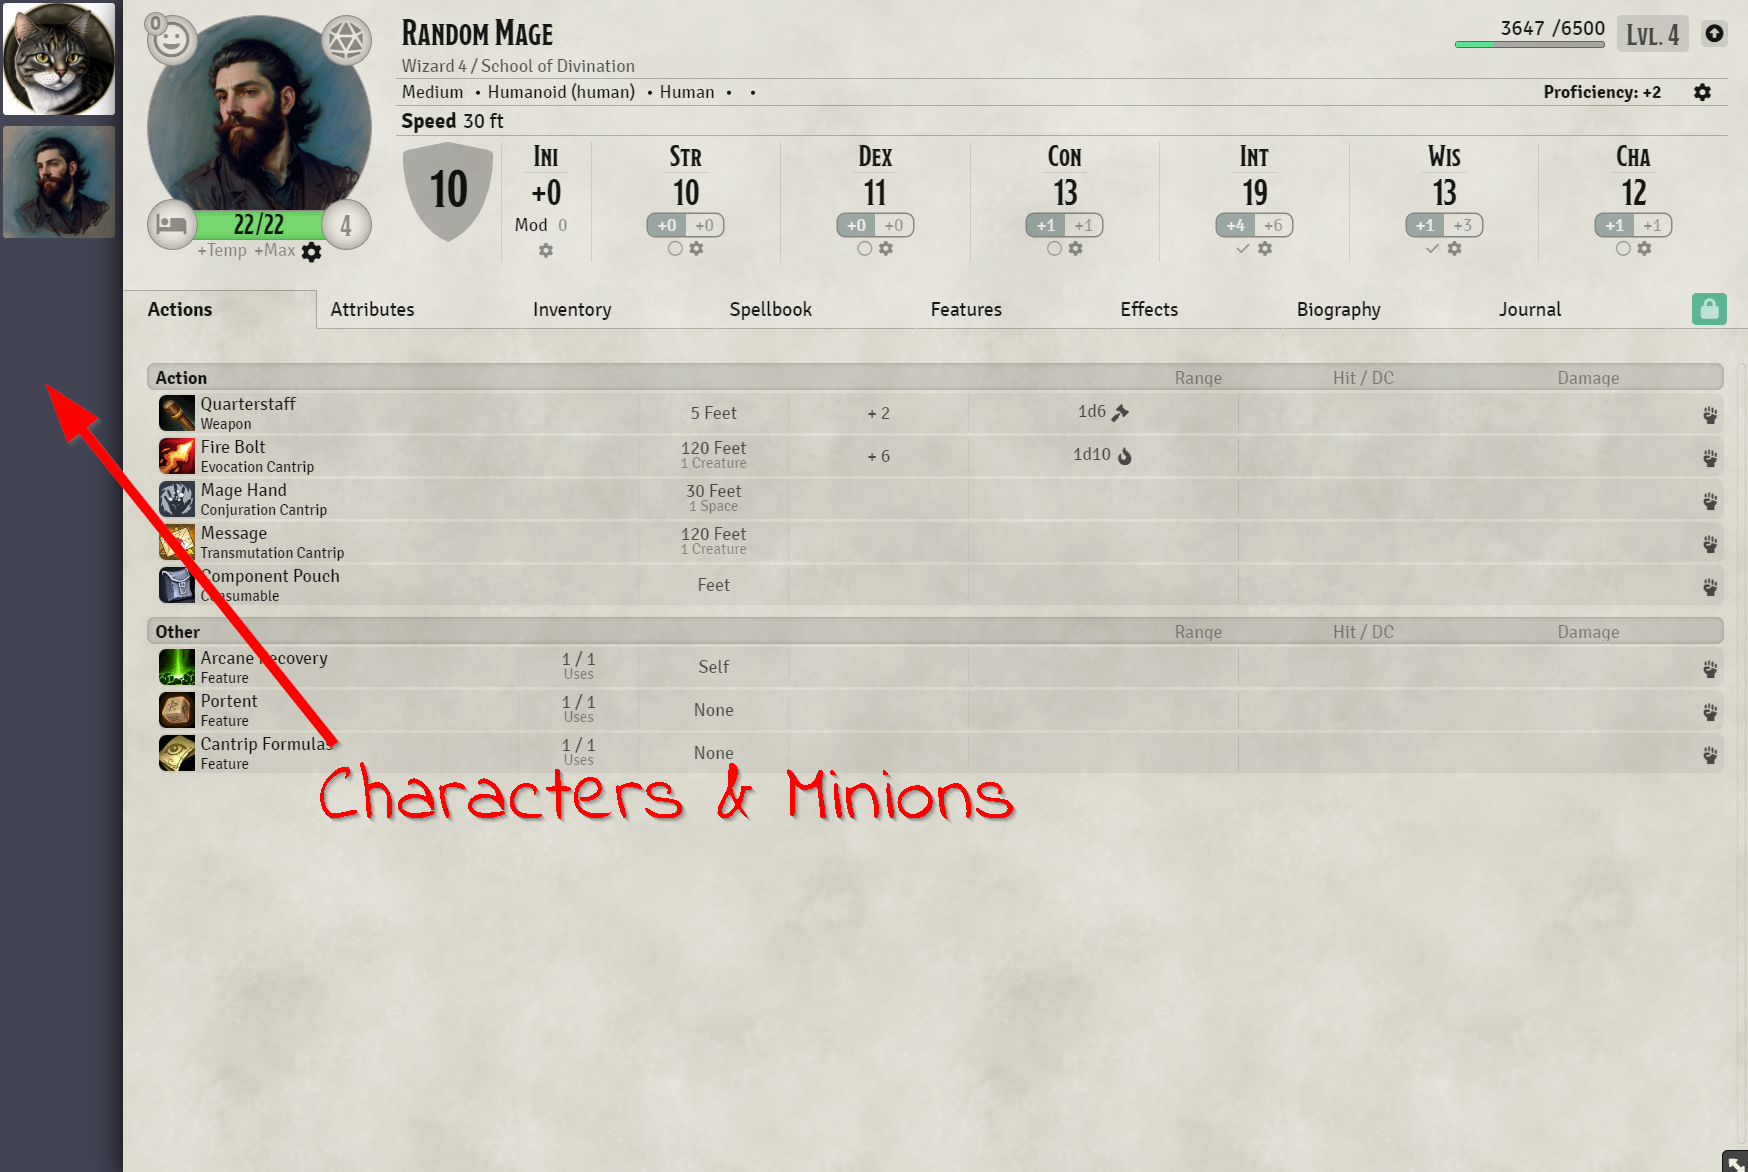
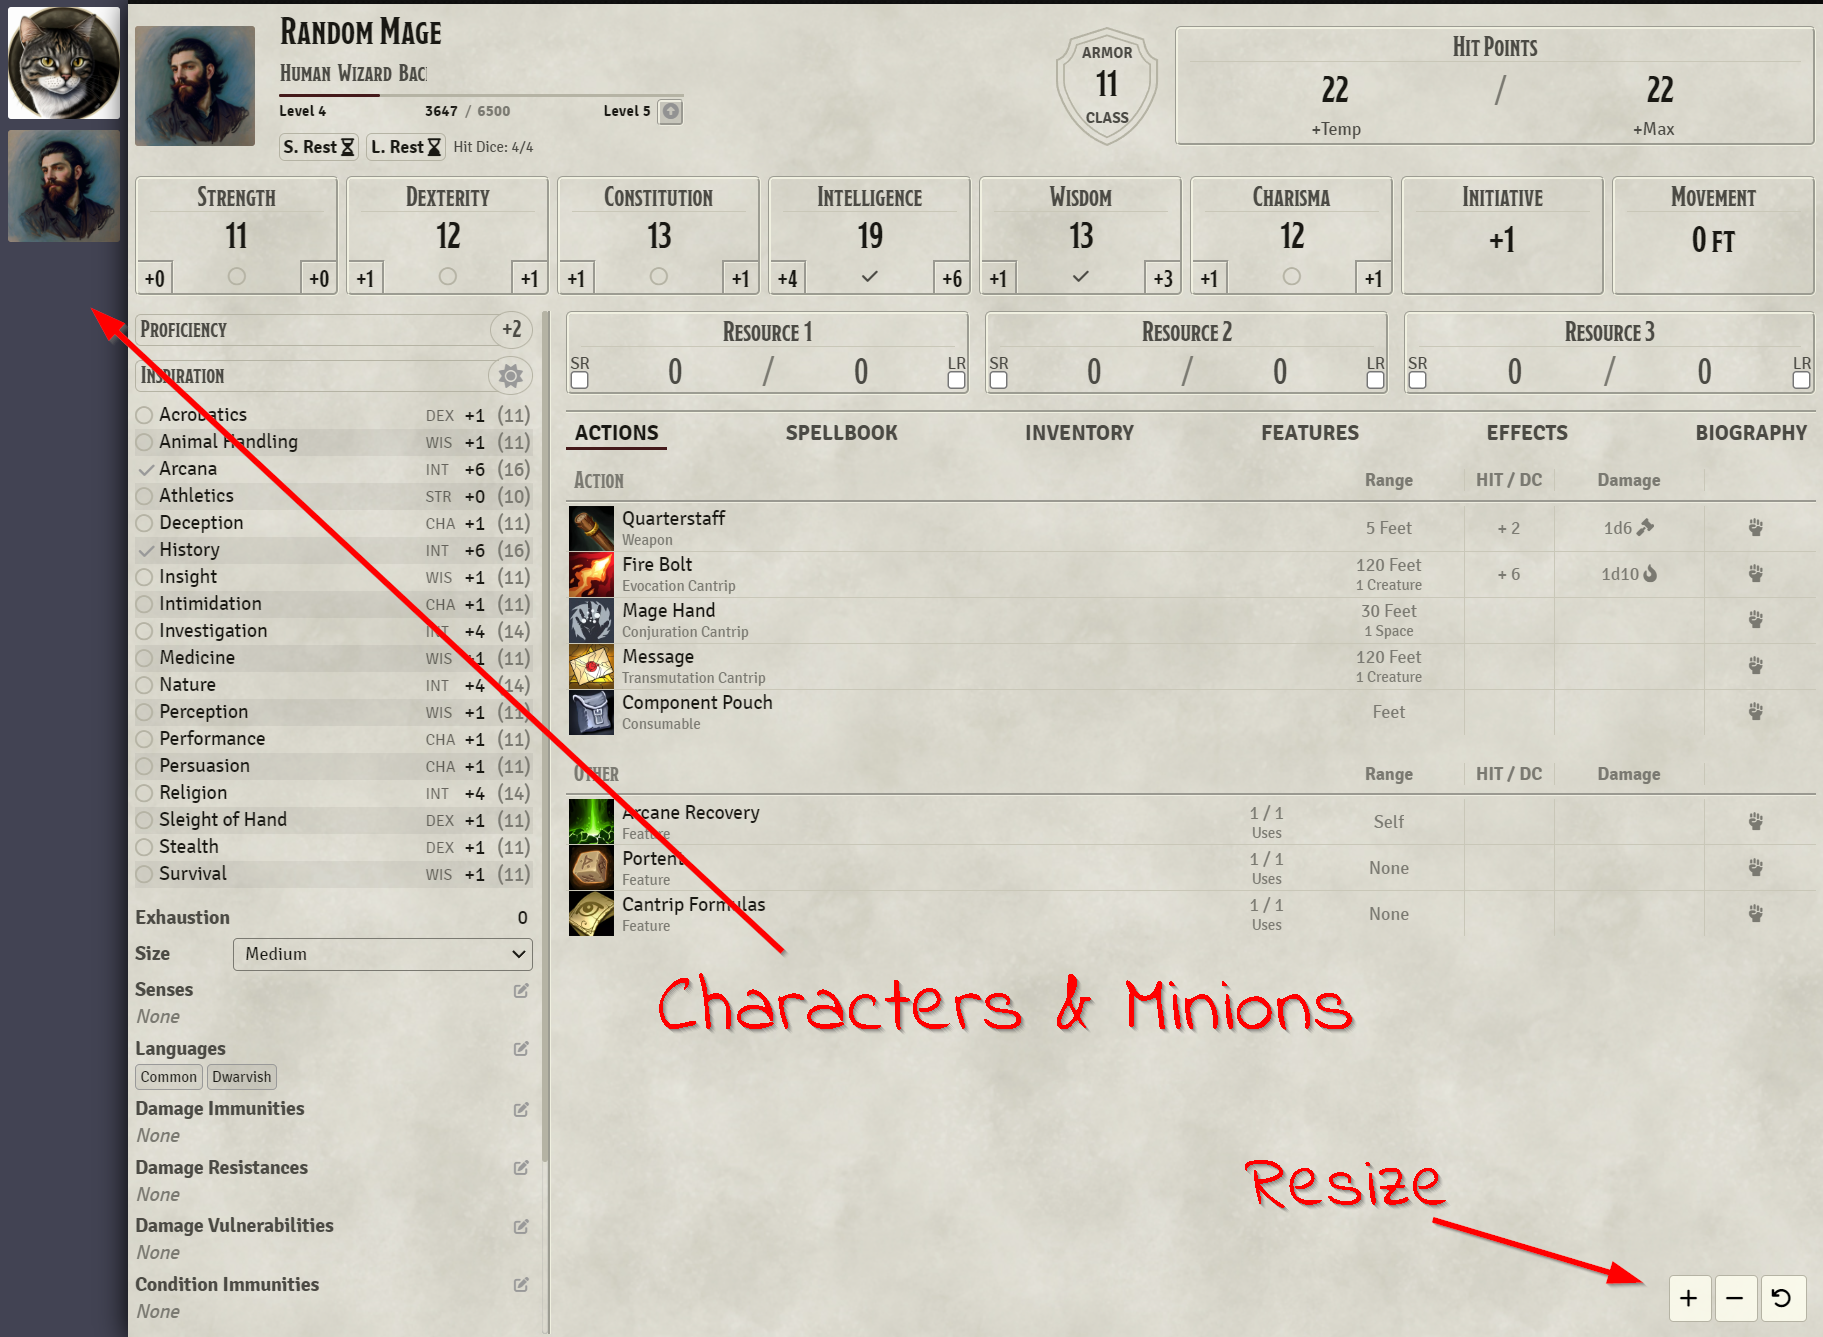
Readme and example image

diff --git a/README.MD b/README.MD
@@ -20,6 +20,8 @@ I fixed that problem. Both, GM and players are looking and updating the same she
 * If sheet-only users log in they will only see their sheets
 * If they have multiple characters, a sidebar is shown and the users are able to switch between characters
   * Works for companions and wild shapes (as long as the user has owner permission)
+* In the bottom right corner there are buttons to resize the UI. For this, the foundryVTT font size gets adjusted (like you would in the core setting) and therefore does only work with sheets that uses relative font-sizes (rem instead of px)
+  * A working example is the default sheet of [Level Up: Advanced 5th Edition (Official)](https://foundryvtt.com/packages/a5e) 
 
 <img alt="example.png" height="500" src="example.png"/>
 
